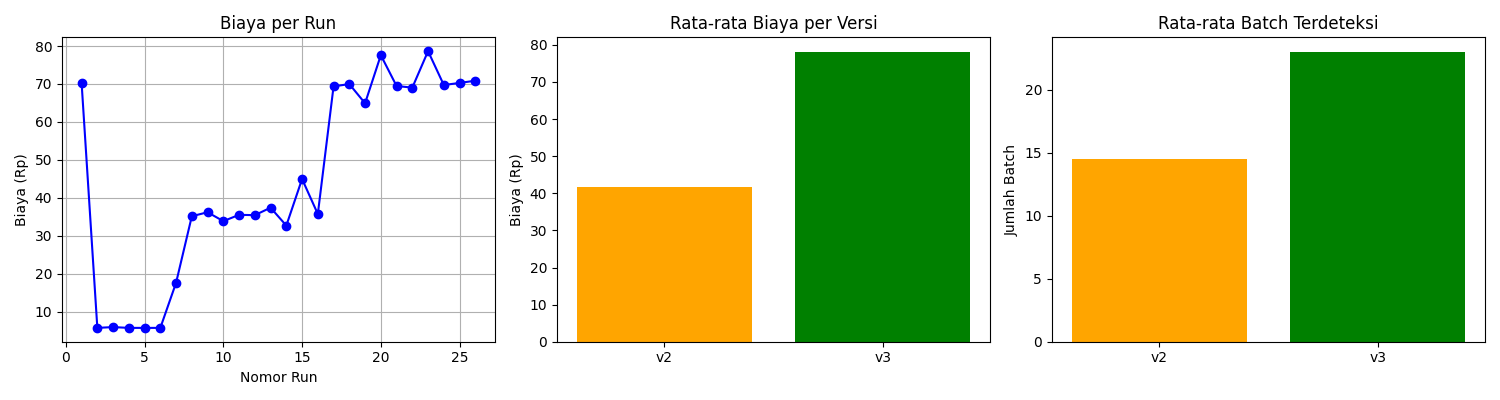
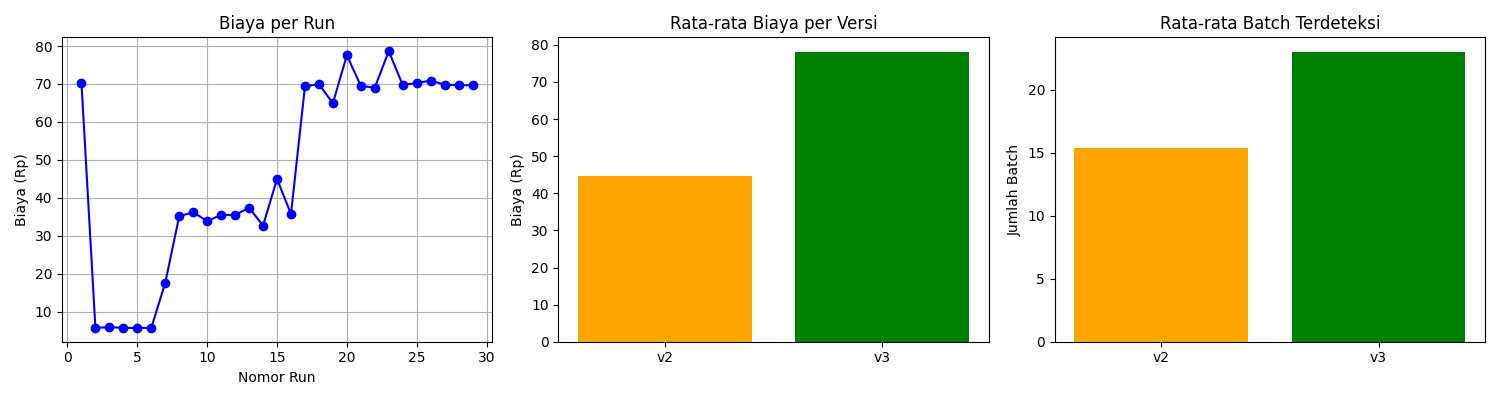
pipline orchestractor + fix plt.show()

diff --git a/pipeline.py b/pipeline.py
@@ -1,0 +1,53 @@
+import subprocess
+import sys
+import time
+
+
+def jalankan_script(nama_file, max_retry=3):
+    """Jalankan script Python, retry kalau gagal."""
+    for attempt in range(1, max_retry + 1):
+        print(f"\n=== Menjalankan {nama_file} (percobaan {attempt}/{max_retry}) ===")
+        hasil = subprocess.run(
+            [sys.executable, nama_file],
+            capture_output=False,
+        )
+        
+        if hasil.returncode == 0:
+            print(f" {nama_file} berhasil.")
+            return True
+        else:
+            print(f" {nama_file} gagal (kode: {hasil.returncode}).")
+            if attempt < max_retry:
+                print(f"   Menunggu 5 detik sebelum retry...")
+                time.sleep(5)
+    
+    print(f" {nama_file} gagal setelah {max_retry} percobaan.")
+    return False
+
+
+def main():
+    print("=" * 50)
+    print("PIPELINE MANUFACTURING QUALITY AI")
+    print("=" * 50)
+    
+    scripts = [
+        "main.py",
+        "analisis_metrics.py",
+        "grafik.py",
+        "buat_pdf.py",
+    ]
+    
+    for script in scripts:
+        sukses = jalankan_script(script)
+        if not sukses:
+            print(f"\n Pipeline berhenti di {script}.")
+            print("Perbaiki dulu, baru jalankan ulang pipeline.")
+            return
+    
+    print("\n" + "=" * 50)
+    print(" PIPELINE SELESAI!")
+    print("=" * 50)
+
+
+if __name__ == "__main__":
+    main()

diff --git a/grafik.py b/grafik.py
@@ -65,9 +65,7 @@ def buat_grafik(data):
     plt.savefig("grafik_metrics.png", dpi=100)
     print("Grafik disimpan ke grafik_metrics.png")
     
-    # Tampilkan (opsional)
-    plt.show()
-
+    
 
 if __name__ == "__main__":
     data = baca_runs_csv("runs.csv")
